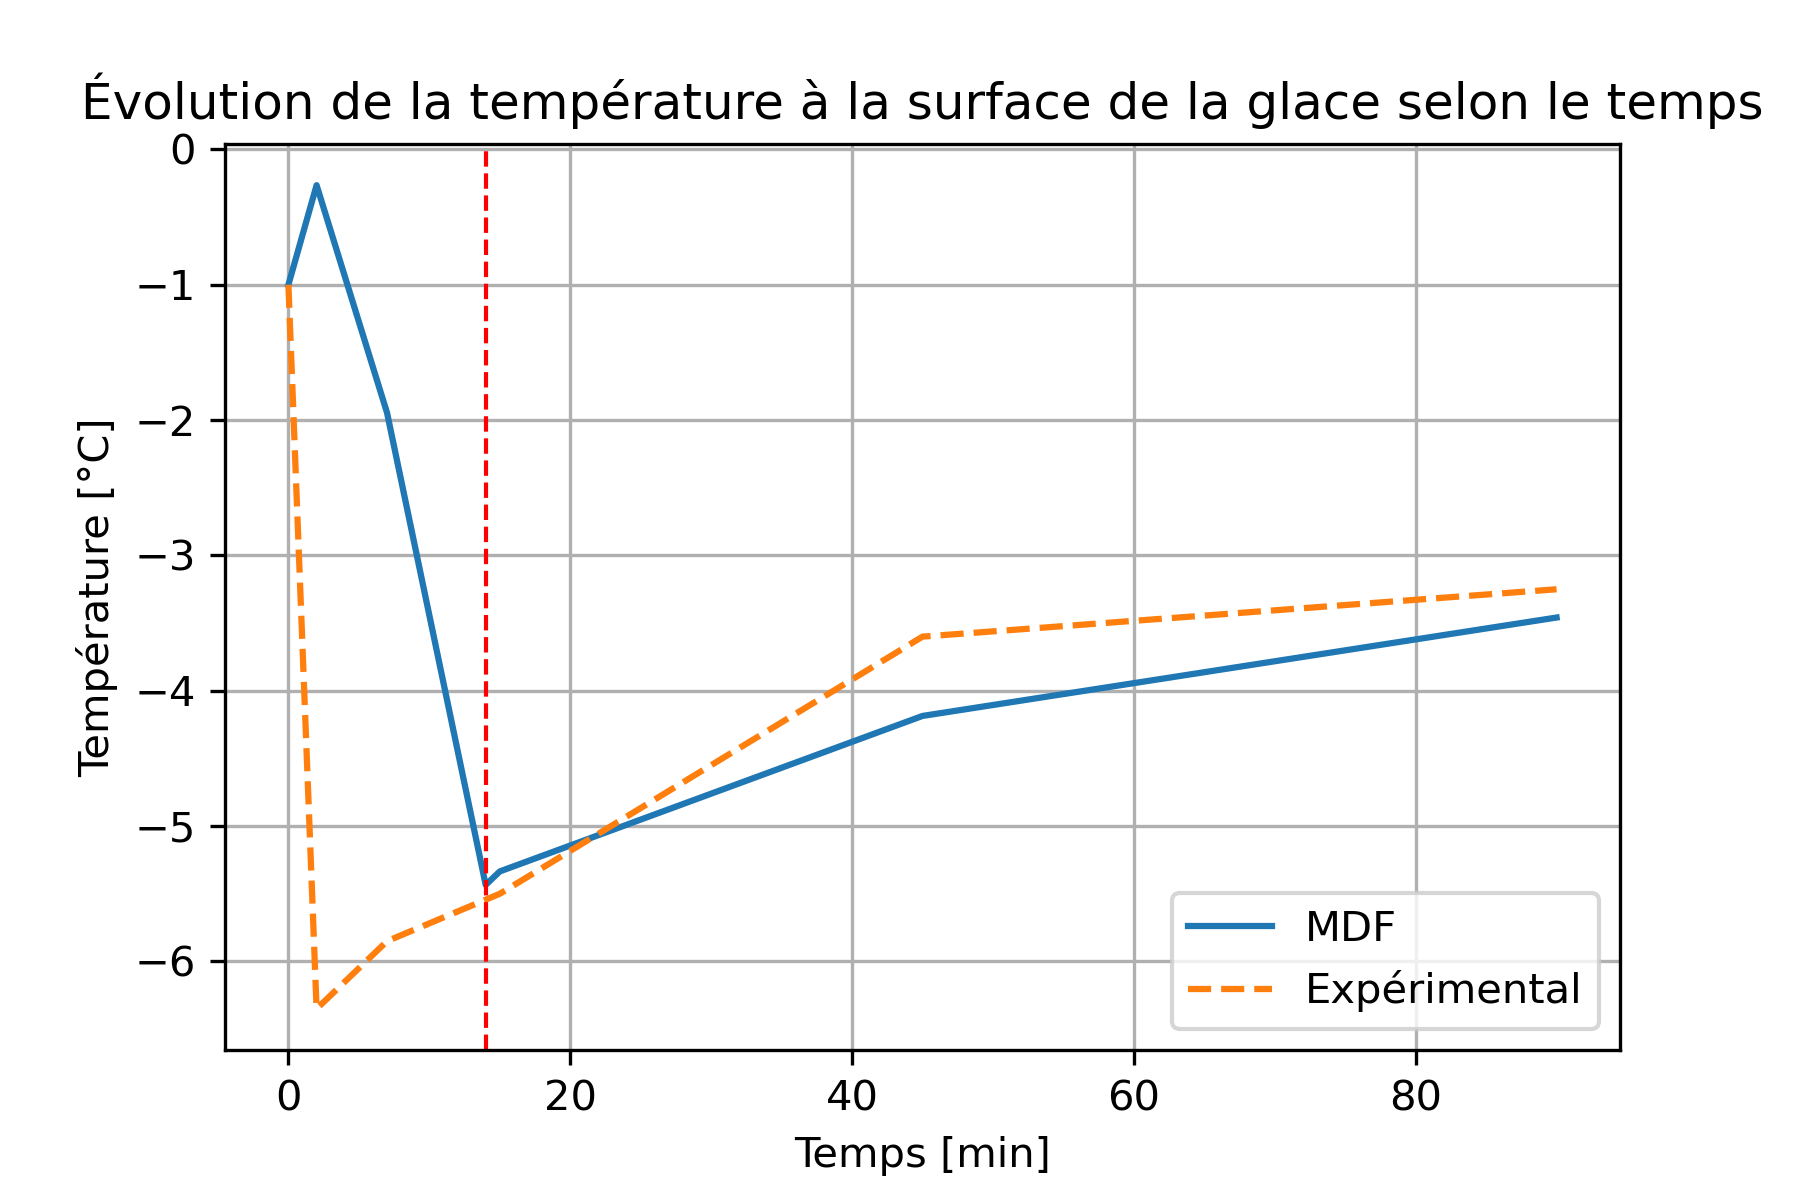
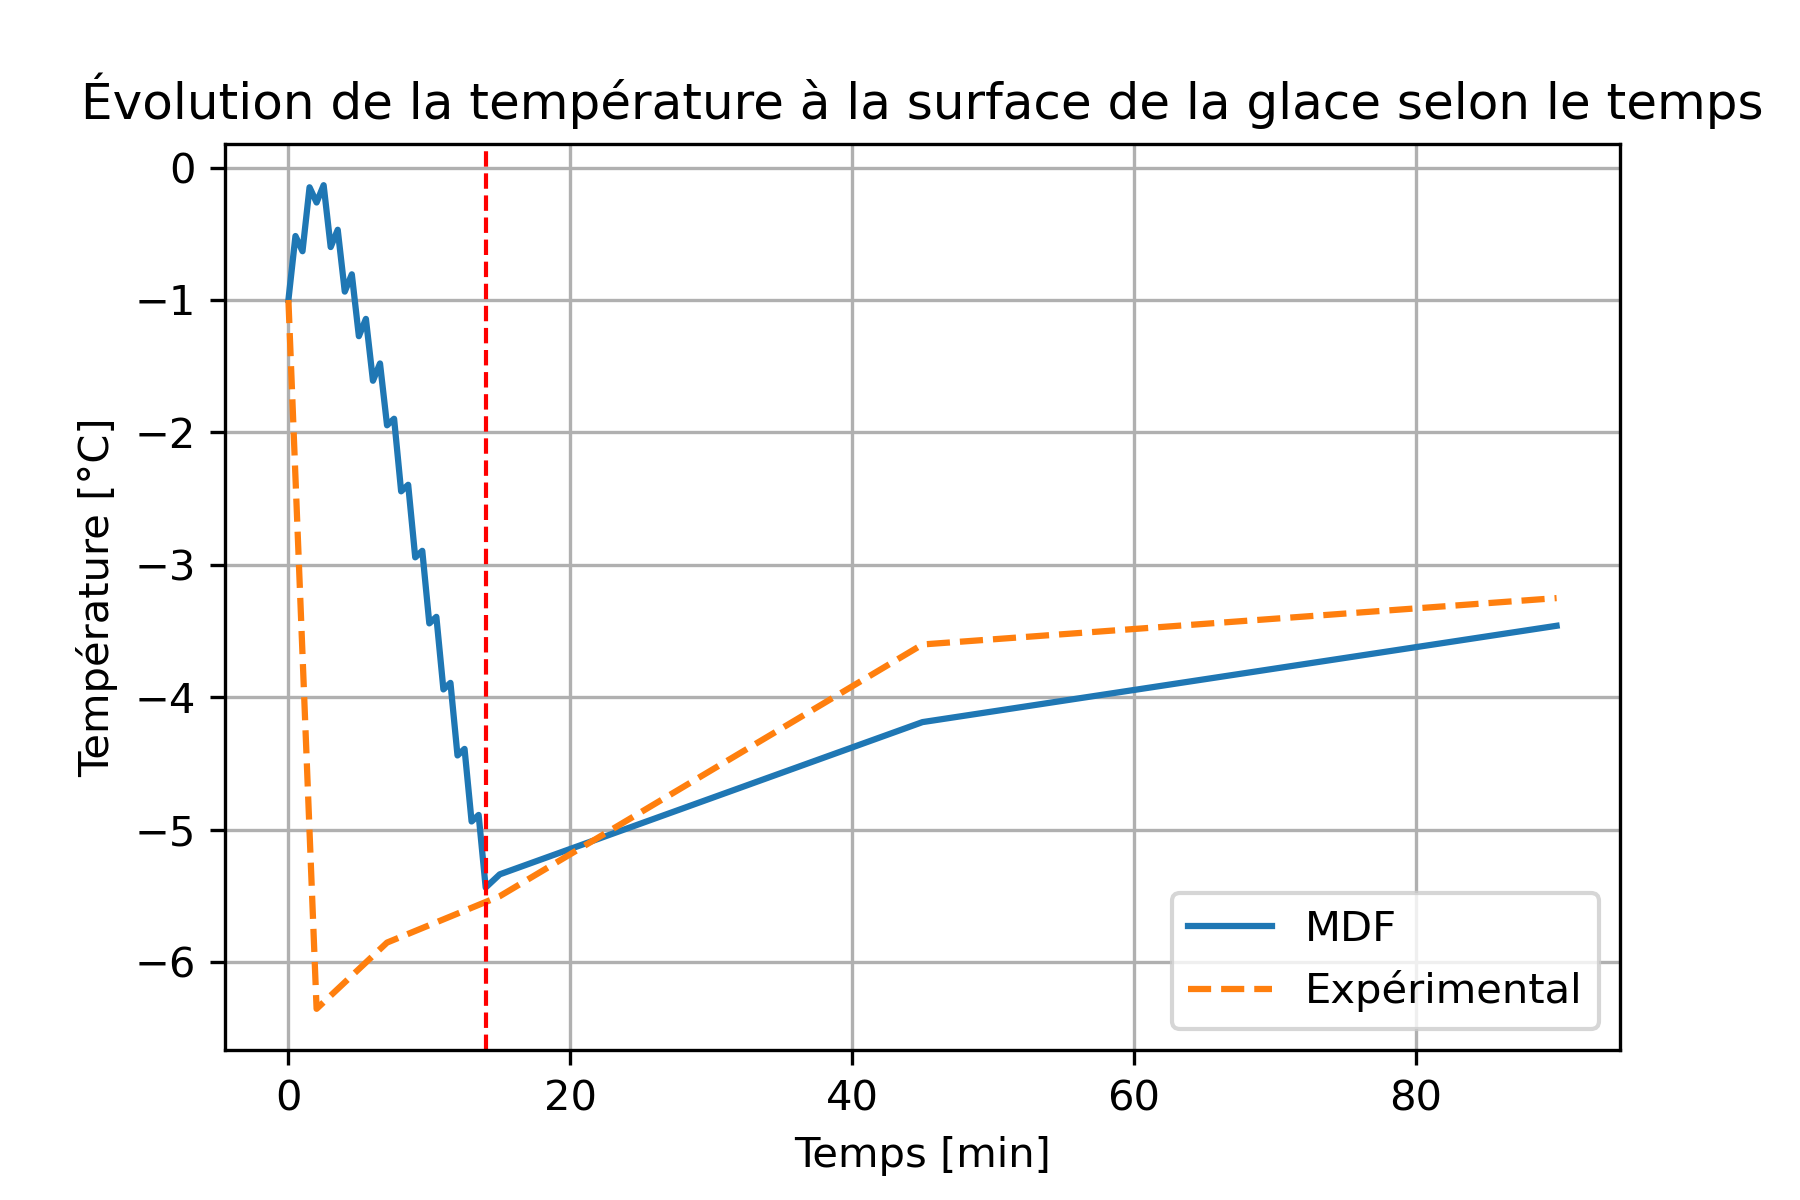
Fixed dt

diff --git a/patinoire_analyse.py b/patinoire_analyse.py
@@ -32,7 +32,7 @@ class parametre():
     Ti = -1 #[°C]
 
 prm = parametre()
-Z = [0,prm.zb+prm.zg]
+Z = [0,prm.zb+prm.zg] 
 dt = 60
 tf = 5400
 
@@ -42,7 +42,7 @@ temps_temperature_experimental = t_test = np.array([0,2,7,15,45,90],dtype=int)
 
 
 
-nz,n_data =trouver_nombre_points(4, dt, tf, Z, prm, 0.5, 25)
+nz,n_data =trouver_nombre_points(4, 60, tf, Z, prm, 0.5, 25)
 
 fonction_plot([n_data[:,0]], [n_data[:,1],n_data[:,2],n_data[:,3]], ["T=0min","T=15min","T=90min"], ["solid","solid","solid"], ["","",""],
               xlabel='Nombre de points', 

diff --git a/patinoire_fct.py b/patinoire_fct.py
@@ -399,7 +399,7 @@ def temperature_sans_echec(Z_limit,nz,prm,dt,tf) :
     
 
 def trouver_nombre_points(n_start,dt,tf,Z,prm,tol,limit_points):
-    """Fonction qui retourne le nombre de points minimum pour avoir une erreur minimum
+    """Fonction qui retourne le nombre de points minimum pour avoir une erreur minimum avec un dt de 60 sec
     
     Entrées :
         - n_start : Nombre de points auquel on commence l'analyse'
